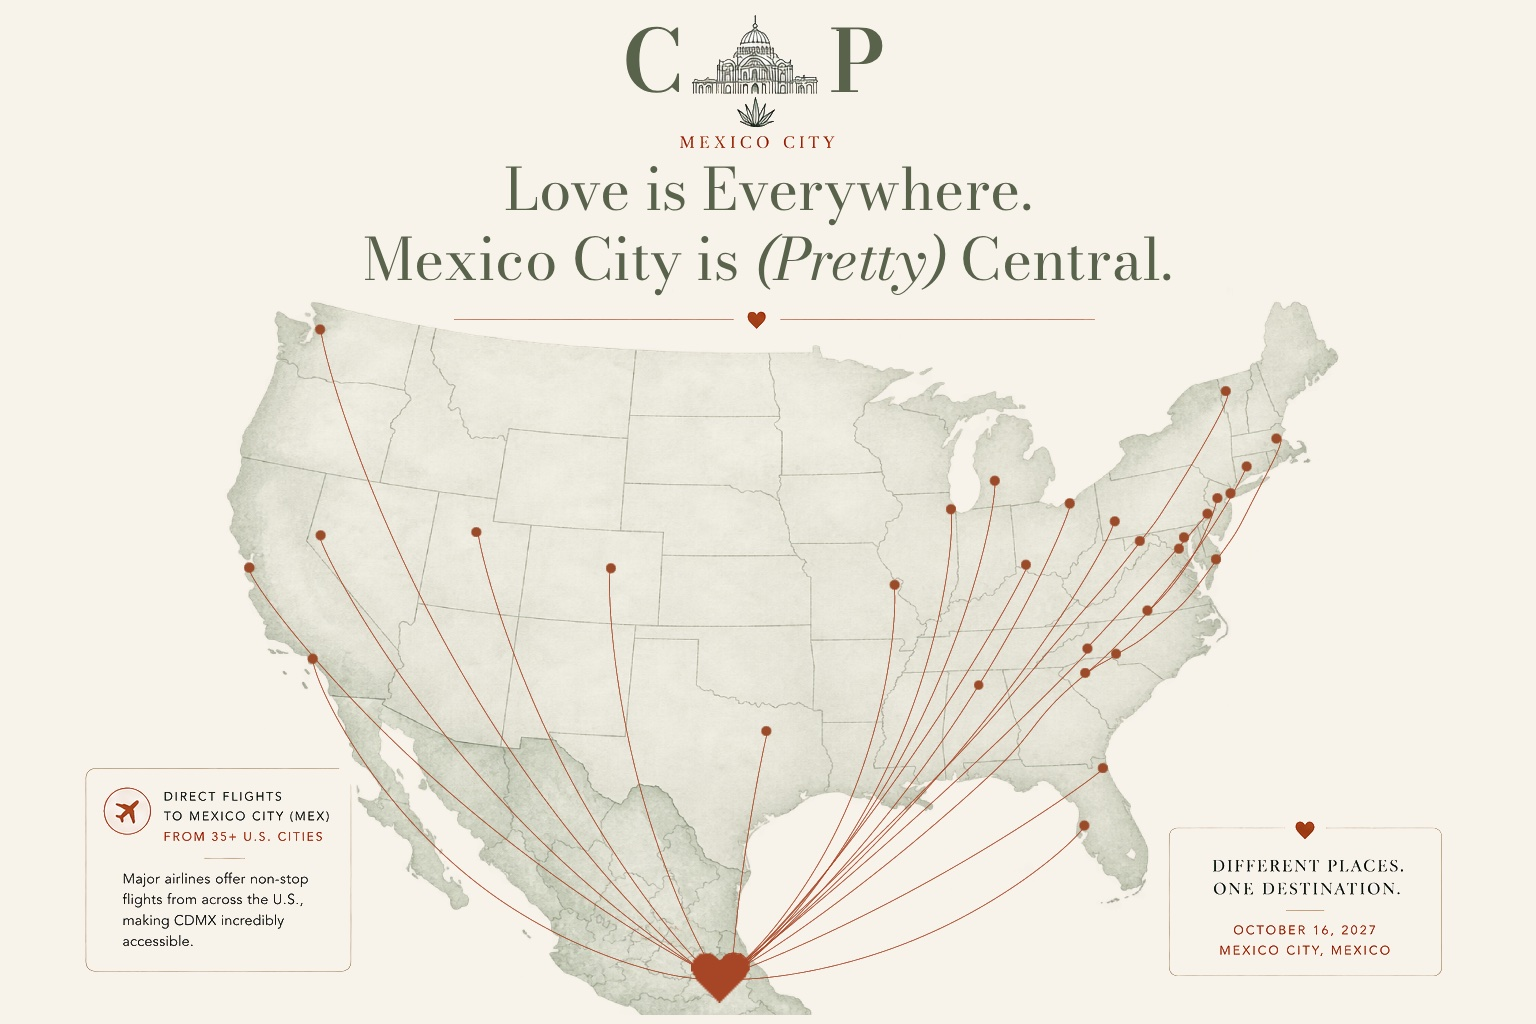
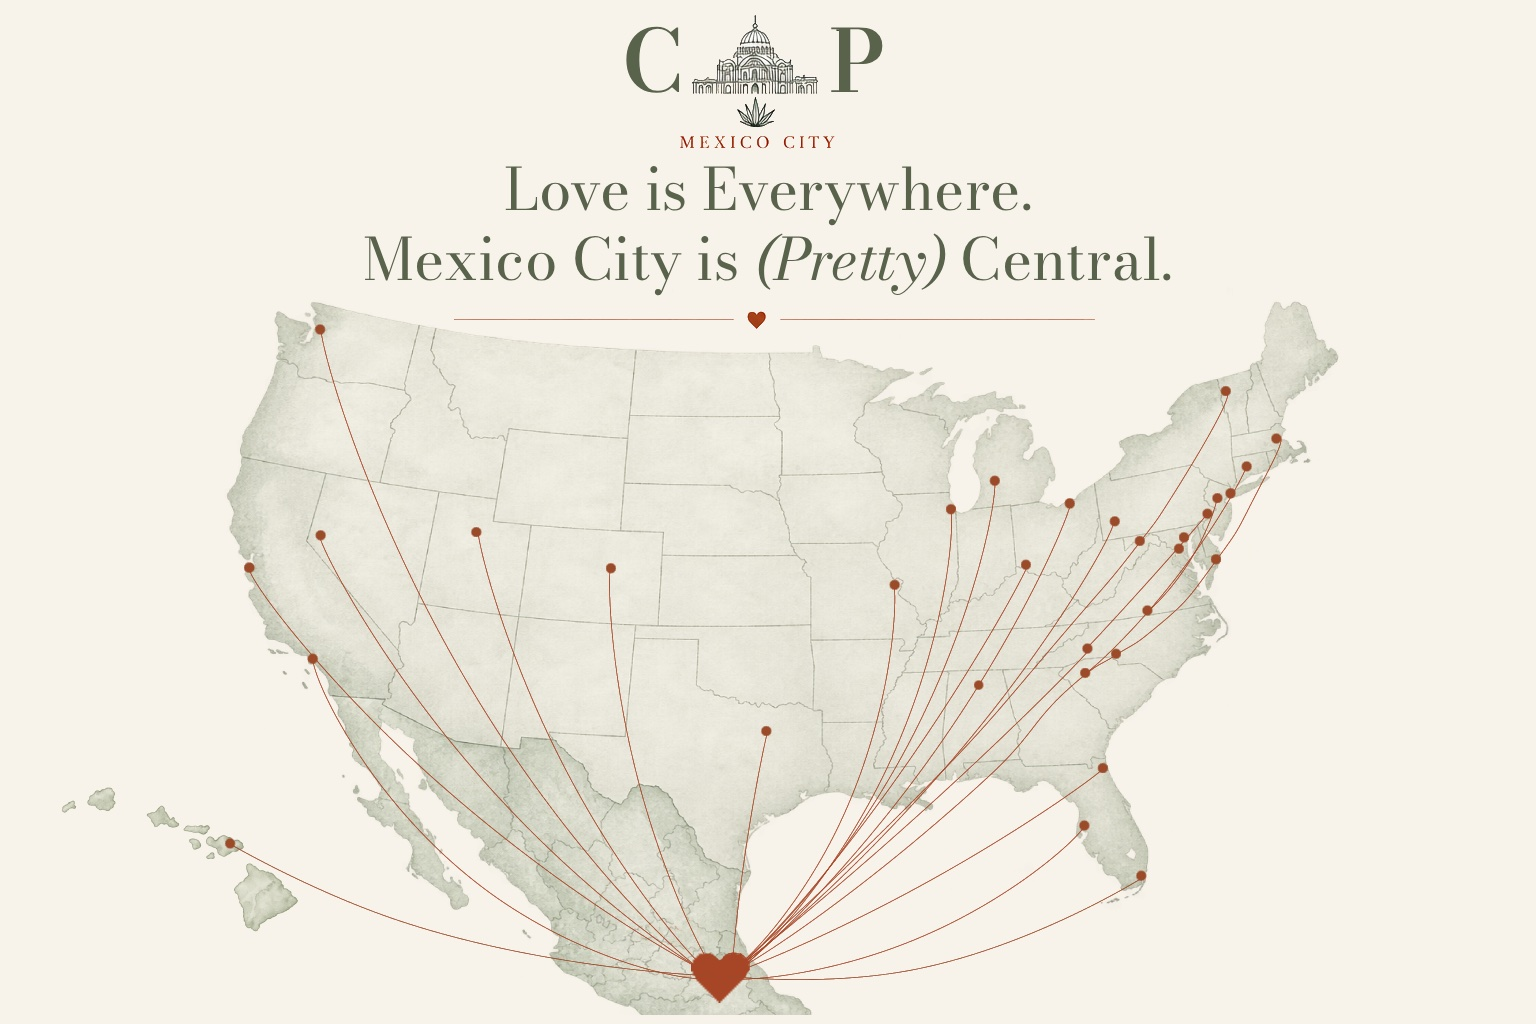
updated hotel info

diff --git a/assets/js/content.js b/assets/js/content.js
@@ -132,12 +132,33 @@ const NEIGHBORHOODS = [
     img: "assets/img/polanco-neighborhood.jpg",
     description: "To keep things simple, we're recommending everyone stay in Polanco - Mexico City's most polished neighborhood, with wide tree-lined avenues, world-class restaurants, high-end shopping, and several great museums nearby. It's also where our wedding-day shuttle picks up and drops off, so staying here (or nearby) means you're covered.",
     hotels: [
-      { name: "InterContinental Presidente Mexico City", tier: "$$$", desc: "Our top recommendation - a large, reliable property right in the heart of Polanco. We've secured a room block here for guests, and the wedding-day shuttle will run straight from here to Casa Xipe and back. The booking link is coming soon, so check back here.", roomBlock: true, img: "assets/img/hotel-intercontinental-presidente.jpg" },
+      { name: "InterContinental Presidente Mexico City", tier: "$$$", desc: "Our top recommendation - a large, reliable property right in the heart of Polanco. We've secured a room block here for guests (from $259/night with breakfast), and the wedding-day shuttle will run straight from here to Casa Xipe and back. Booking link coming soon - see below for rates and details.", roomBlock: true, img: "assets/img/hotel-intercontinental-presidente.jpg" },
       { name: "Hyatt Regency Mexico City", tier: "$$–$$$", desc: "A polished, full-service hotel just up the block from the InterContinental on Campos Elíseos - a nice middle ground between our room block and the more budget-friendly option below. A couple minutes' walk to catch the wedding shuttle.", img: "assets/img/hotel-hyatt-regency.jpg" },
       { name: "Residence L'Heritage Tennyson by BlueBay", tier: "$$", desc: "A more affordable apartment-style option a short walk from the InterContinental. You can still meet up with everyone there to catch the shuttle.", img: "assets/img/hotel-residence-lheritage.jpg" },
     ],
   },
 ];
+
+const ROOM_BLOCK = {
+  hotel: "InterContinental Presidente Mexico City",
+  dates: "October 13–17, 2027",
+  code: "S7K",
+  deadline: "September 24, 2027",
+  rates: [
+    { name: "Standard Room", price: "$259", note: "Breakfast included" },
+    { name: "Club Room", price: "$359", note: "Club Lounge access on the 39th floor - breakfast buffet 6–10am, snacks & drinks 6–8pm" },
+    { name: "Suite", price: "$609", note: "Club Lounge access on the 39th floor - breakfast buffet 6–10am, snacks & drinks 6–8pm" },
+  ],
+  details: [
+    { title: "How to book", hidden: true, body: "Email <a href=\"mailto:mexico_grupos@grupopresidente.com\">mexico_grupos@grupopresidente.com</a> or call <a href=\"tel:+18003440548\">1-800-344-0548</a> from the U.S. (<a href=\"tel:+525553277777\">+52 55 5327 7777</a> internationally) and mention group code <strong>S7K</strong> for the Caitlin &amp; Paul wedding. An online booking link is coming soon." },
+    { title: "Book by", body: "September 24, 2027. After that, any remaining rooms go back to the hotel at their regular rates, subject to availability." },
+    { title: "Taxes", body: "Rates are in USD per room, per night, for single or double occupancy, plus 16% VAT and a 3.5% lodging tax." },
+    { title: "Cancellation", body: "Cancel at least 15 days before arrival. No-shows and early departures are charged for the full stay." },
+    { title: "Kids & extra guests", body: "Up to two kids 12 and under stay free in a room with two adults. A third guest over 12 is an extra $60/night plus tax." },
+    { title: "Check-in & out", body: "Each guest pays for their own room and incidentals, with a card guarantee at check-in. Early check-in or late check-out costs half a night's rate." },
+    { title: "Perks", body: "15% off services at the hotel's Hela Spa for wedding guests." },
+  ],
+};
 
 /* -------------------------------------------------------------------- */
 /* EXPLORE CDMX                                                         */
@@ -190,7 +211,7 @@ const FAQ = [
   {
     category: "Staying & Getting Around",
     items: [
-      { q: "Where should I stay?", a: "Our top recommendation is the InterContinental Presidente Mexico City in Polanco - we've secured a room block there, and it's where the wedding-day shuttle will pick up. The booking link is coming soon, so check back. If you'd like a nearby alternative, the Hyatt Regency Mexico City is a couple minutes' walk away, or for something more affordable, Residence L'Heritage Tennyson by BlueBay is also a short walk - both still put you in range of the shuttle. See our Stay page for details." },
+      { q: "Where should I stay?", a: "Our top recommendation is the InterContinental Presidente Mexico City in Polanco - we've secured a room block there, and it's where the wedding-day shuttle will pick up. Rates are on our Stay page, and the booking link is coming soon. If you'd like a nearby alternative, the Hyatt Regency Mexico City is a couple minutes' walk away, or for something more affordable, Residence L'Heritage Tennyson by BlueBay is also a short walk - both still put you in range of the shuttle. See our Stay page for details." },
       { q: "How many days should I stay?", a: "We'd suggest at least 3–4 nights if you can swing it - enough time to enjoy the wedding weekend and still explore the city a bit." },
       { q: "Is Mexico City safe?", a: "Yes - it's a huge, modern capital city, and the neighborhoods we're recommending are safe, walkable, and popular with visitors. Normal city precautions apply, as they would in any major city." },
       { q: "Should I rent a car?", a: "Please don't - parking is extremely difficult in Mexico City, and traffic can be a lot to deal with. Get around using Uber instead. It's safe and inexpensive, and available nearly everywhere you'll be." },

diff --git a/stay.html b/stay.html
@@ -55,6 +55,18 @@
   <div class="container" id="hotels-detail-wrap"></div>
 </section>
 
+<section class="section bg-paper" id="room-block">
+  <div class="container">
+    <div class="section-header center reveal">
+      <span class="eyebrow">Our Room Block</span>
+      <h2 class="mt-1">Booking at the InterContinental</h2>
+      <p class="lede" id="room-block-lede"></p>
+    </div>
+    <div class="card-grid grid-3 mt-3" id="room-rates-wrap"></div>
+    <div class="mt-4" style="max-width:820px; margin-left:auto; margin-right:auto;" id="room-block-details"></div>
+  </div>
+</section>
+
 <section class="section-tight bg-paper">
   <div class="container text-center reveal" style="max-width:560px;">
     <span class="eyebrow" style="justify-content:center;">Next Up</span>
@@ -117,6 +129,30 @@
       </div>
     </div>
   `).join('<hr class="divider mt-4" style="margin-bottom:0;">');
+
+  document.getElementById('room-block-lede').innerHTML =
+    `Special group rates for ${ROOM_BLOCK.dates}. The booking link is coming soon - check back here.`;
+
+  document.getElementById('room-rates-wrap').innerHTML = ROOM_BLOCK.rates.map((r, i) => `
+    <div class="info-card reveal reveal-delay-${i}">
+      <span class="icon-num">${r.name}</span>
+      <h3>${r.price} <span class="small-caps" style="color:var(--charcoal-50);">/ night + tax</span></h3>
+      ${r.note ? `<p>${r.note}</p>` : ''}
+    </div>
+  `).join('');
+
+  document.getElementById('room-block-details').innerHTML = ROOM_BLOCK.details.filter(item => !item.hidden).map(item => `
+    <div class="reveal" style="padding:24px 0; border-bottom:1px solid var(--line-strong); display:grid; grid-template-columns:180px 1fr; gap:24px;">
+      <h4>${item.title}</h4>
+      <p>${item.body}</p>
+    </div>
+  `).join('');
 </script>
+<style>
+  @media (max-width:640px){
+    #room-block-details > div{ grid-template-columns:1fr !important; gap:8px !important; }
+  }
+  #room-block-details a{ border-bottom:1px solid var(--clay); }
+</style>
 </body>
 </html>
